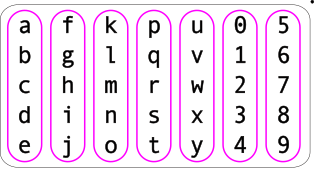
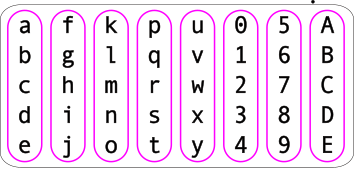
work on Salts

diff --git a/Scramble/unpack_salt.py b/Scramble/unpack_salt.py
@@ -1,0 +1,231 @@
+
+def unpack_salt(salt, debug=1):
+    unpacked_salt = bytearray('\x00\x00\x00\x00\x00\x00\x00\x00\x00\x00\x00\x00\x00\x00\x00\x00\x00\x00\x00\x00\x00\x00\x00\x00', 'utf-8')
+    # unpack 15 bytes into 24 numbers 5 bits each
+    bit_sensor = [ 0b00000001, 0b00000010, 0b00000100, 0b00001000, 0b00010000, 0b00100000, 0b01000000, 0b10000000 ]
+    if (debug):
+      print("Bytes passed in:")
+    for batch in range(3):
+        for batch_row in range(5):
+            bytes_row = batch * 5 + batch_row
+            if (debug):
+                print(f"{salt[bytes_row]:08b}")
+            for bit in range(8):
+                row = batch * 8 + bit
+                if (salt[bytes_row] & bit_sensor[bit]):
+                   unpacked_salt[row] |= 1 << batch_row
+        if (debug):
+            print("")
+    if (debug):
+        line = 0
+        separator = "\nSalt returned:"
+        for byte in unpacked_salt:
+            if (not line):
+                print(separator)
+                separator = ""
+            print(f"{byte:05b}")
+            line = (line + 1) % 8
+    return unpacked_salt
+
+def pack_salt(unpacked_salt, debug=1):
+         salt = bytearray('\x00\x00\x00\x00\x00\x00\x00\x00\x00\x00\x00\x00\x00\x00\x00', 'utf-8')
+    # pack 24 numbers 5 bits each into 15-byte salt and 15-byte anti_salt
+    bit_sensor = [ 0b00000001, 0b00000010, 0b00000100, 0b00001000, 0b00010000, 0b00100000, 0b01000000, 0b10000000 ]
+    if (debug):
+        line = 0
+        separator = "Salt-based parameters passed in:"
+        for byte in unpacked_salt:
+            if (not line):
+                print(separator)
+                separator = ""
+            print(f"{byte:05b}")
+            line = (line + 1) % 8
+    for number in range(24):
+        packed_bit = number % 8
+        batch = int(number/8)
+        for unpacked_bit in range(5):
+            packed_byte = batch * 5 + unpacked_bit
+            set_bit = 1 << packed_bit
+            if ( unpacked_salt[number] & bit_sensor[unpacked_bit] ):
+                salt[packed_byte] |= set_bit
+    return salt
+
+def pack_anti_salt(unpacked_salt, debug=1):
+    anti_salt = bytearray('\x00\x00\x00\x00\x00\x00\x00\x00\x00\x00\x00\x00\x00\x00\x00', 'utf-8')
+    # pack 24 numbers 5 bits each into 15-byte salt and 15-byte anti_salt
+    bit_sensor = [ 0b00000001, 0b00000010, 0b00000100, 0b00001000, 0b00010000, 0b00100000, 0b01000000, 0b10000000 ]
+    if (debug):
+        line = 0
+        separator = "Salt-based parameters passed in:"
+        for byte in unpacked_salt:
+            if (not line):
+                print(separator)
+                separator = ""
+            print(f"{byte:05b}")
+            line = (line + 1) % 8
+    # 4 5 6 7 0 1 2 3  - 8 9 10 11 12 13 14 15 16 17 18 19 20 21 22 23
+    # Checkerboard
+    # Anti-X: X                    if  X <= 8
+    #         X + 1 + 2((x%2)-1)   if  X >= 9
+    # Whirlpool
+    # 0  26 - X
+    # 1  18 - X
+    # 2  10 - X
+    # 3  Anti - Checkerboard
+    i = 0
+    for number in ( 4, 5, 6, 7, 0, 1, 2, 3, 8, 9, 10, 11, 12, 13, 14, 15, 16, 17, 18, 19, 20, 21, 22, 23):
+        if ( number <= 7 and ( number % 4 ) != 3 ):
+            if ( ( number % 4 ) == 0 ):
+                unpacked_anti_salt[i] = 26 - unpacked_salt[number]
+            if ( ( number % 4 ) == 1 ):
+                unpacked_anti_salt[i] = 18 - unpacked_salt[number]
+            if ( ( number % 4 ) == 2 ):
+                unpacked_anti_salt[i] = 10 - unpacked_salt[number]
+        else:
+            if ( unpacked_salt[number] <= 8 ):
+                unpacked_anti_salt[i] = unpacked_salt[number]
+            else:
+                X = unpacked_salt[number]
+                unpacked_anti_salt[i] = X + 1 + 2 * ( ( X % 2 ) -1 )
+        i += 1
+    for number in range(24):
+        packed_bit = number % 8
+        batch = int(number/8)
+        for unpacked_bit in range(5):
+            packed_byte = batch * 5 + unpacked_bit
+            set_bit = 1 << packed_bit
+            if ( unpacked_anti_salt[number] & bit_sensor[unpacked_bit] ):
+                anti_salt[packed_byte] |= set_bit
+    return anti_salt
+
+# unpack_salt( bytearray('Steven_ Parker:', 'utf-8' ) )
+
+'''
+
+ btyes_row  bytes                      batch  batch_row
+            7  6  5  4  3  2  1  0
+   0        a  f  k  p  u  0  5  A     0      0
+   1        b  g  l  q  v  1  6  B     0      1
+   2        c  h  m  r  w  2  7  C     0      2
+   3        d  i  n  s  x  3  8  D     0      3
+   4        e  j  o  t  y  4  9  E     0      4
+   5        a  f  k  p  u  0  5  A     1      0
+   6        b  g  l  q  v  1  6  B     1      1
+   7        c  h  m  r  w  2  7  C     1      2
+   8        d  i  n  s  x  3  8  D     1      3
+   9        e  j  o  t  y  4  9  E     1      4
+  10        a  f  k  p  u  0  5  A     2      0
+  11        b  g  l  q  v  1  6  B     2      1
+  12        c  h  m  r  w  2  7  C     2      2
+  13        d  i  n  s  x  3  8  D     2      3
+  14        e  j  o  t  y  4  9  E     2      4
+            ----------------------
+ bit ->     7  6  5  4  3  2  1  0
+
+meanings of 24 salt numbers
+
+2x2 square  0 1
+            3 2
+
+  N  Transform 
+Not used  0  0 1 2 3    Null Transform   Reverse Transform
+     0    2  1 0 2 3    Swap Top         0
+     1	  2  0 1 3 2    Swap Bottom      1
+     2	  2  0 2 1 3    Swap Right       2
+     3	  2  2 1 0 3    Swap \           3
+     4	  2  3 1 2 0    Swap Left        4
+     5	  2  0 3 2 1    Swap /           5
+     6	  4  1 0 3 2    Flip Vert        6
+     7	  4  3 2 1 0    Flip Hori        7
+     8	  4  2 3 0 1    X                8
+
+     9	  3  0 3 1 2    TL -  CW        10
+    10	  3  0 2 3 1    TL - CCW         9
+
+    11	  3  3 1 0 2    TR -  CW        12
+    12	  3  2 1 3 0    TR - CCW        11
+
+    13	  3  1 3 2 0    BR -  CW        14
+    14	  3  3 0 2 1    BR - CCW        13
+
+    15	  3  2 0 1 3    BL -  CW        16
+    16	  3  1 2 0 3    BL - CCW        15
+
+    17	  4  3 0 1 2     CW             18
+    18	  4  1 2 3 0    CCW             17
+
+    19	  4  2 3 1 0    B/ \B  Tv vT    20
+    20	  4  3 2 0 1    T\ /T  B| |B    19
+
+    21	  4  2 0 3 1    L- L-  R/ R\    22
+    22	  4  1 3 0 2    L/ L\  R- R-    21
+
+--------------------------                                       
+    Whirlpool
+    0  26 - X
+    1  18 - X
+    2  10 - X
+    3  Anti - Checkerboard
+    4  26 - X
+    5  18 - X
+    6  10 - X
+    7  Anti - Checkerboard
+
+    Checkerboard
+8..23  Anti - Checkerboard
+
+Anti - Checkerboard:
+    Anti-X: X                    if  X <= 8
+            X + 1 + 2((x%2)-1)   if  X >= 9
+--------------------------
+
+
+Whirlpool
+R                                       
+O         COLUMN                        
+W    7 6 5 4 3 2 1 0                    
+     - - - - - - - -                    
+0 |  A B C D E F G H       _ _ _ _ _ _ _ _       _ _ _ _ _ _ _ _      _ _ _ _ _ _ _ _
+1 |  2 _ _ _ _ _ _ I       _ A B C D E F _       _ _ _ _ _ _ _ _      _ _ _ _ _ _ _ _
+2 |  1 _ _ _ _ _ _ J       _ T _ _ _ _ G _       _ _ A B C D _ _      _ _ _ _ _ _ _ _
+3 |  0 _ _ _ _ _ _ K       _ S _ _ _ _ H _       _ _ L _ _ E _ _      _ _ _ A B _ _ _
+4 |  Z _ _ _ _ _ _ L       _ R _ _ _ _ I _       _ _ K _ _ F _ _      _ _ _ D C _ _ _
+5 |  Y _ _ _ _ _ _ M       _ Q _ _ _ _ J _       _ _ J I H G _ _      _ _ _ _ _ _ _ _
+6 |  X _ _ _ _ _ _ N       _ P O N M L K _       _ _ _ _ _ _ _ _      _ _ _ _ _ _ _ _
+7 |  V U T S R Q P O       _ _ _ _ _ _ _ _       _ _ _ _ _ _ _ _      _ _ _ _ _ _ _ _
+                                           
+     28 bit locations      20 bit locations      12 bit locations     4 bit locations
+                                         
+Rotations should be between 1 and N-1.  
+                                         
+        27 rotations       19 rotations          11 rotations       23 unique trasnforms
+
+     0  rotate  1 CW  26   rotate  1 CW  18      rotate  1 CW  10
+     1	rotate  2 CW  25   rotate  2 CW  17      rotate  2 CW   9
+     2	rotate  3 CW  24   rotate  3 CW  16      rotate  3 CW   8
+     3	rotate  4 CW  23   rotate  4 CW  15      rotate  4 CW   7
+     4	rotate  5 CW  22   rotate  5 CW  14      rotate  5 CW   6
+     5	rotate  6 CW  21   rotate  6 CW  13      rotate  6 CW   5
+     6	rotate  7 CW  20   rotate  7 CW  12      rotate  7 CW   4
+     7	rotate  8 CW  19   rotate  8 CW  11      rotate  8 CW   3
+     8	rotate  9 CW  18   rotate  9 CW  10      rotate  9 CW   2
+     9	rotate 10 CW  17   rotate 10 CW   9      rotate 10 CW   1
+    10	rotate 11 CW  16   rotate 11 CW   8      rotate 11 CW   0
+    11	rotate 12 CW  15   rotate 12 CW   7     
+    12	rotate 13 CW  14   rotate 13 CW   6     
+    13	rotate 14 CW  13   rotate 14 CW   5     
+    14	rotate 15 CW  12   rotate 15 CW   4     
+    15	rotate 16 CW   1   rotate 16 CW   3     
+    16	rotate 17 CW   0   rotate 17 CW   2     
+    17	rotate 18 CW   9   rotate 18 CW   1     
+    18	rotate 19 CW   8   rotate 19 CW   0     
+    19	rotate 20 CW   7  
+    20	rotate 21 CW   6  
+    21	rotate 22 CW   5  
+    22	rotate 23 CW   4  
+    23	rotate 24 CW   3  
+    24	rotate 25 CW   2  
+    25	rotate 26 CW   1  
+    26	rotate 27 CW   0  
+
+'''                                     
